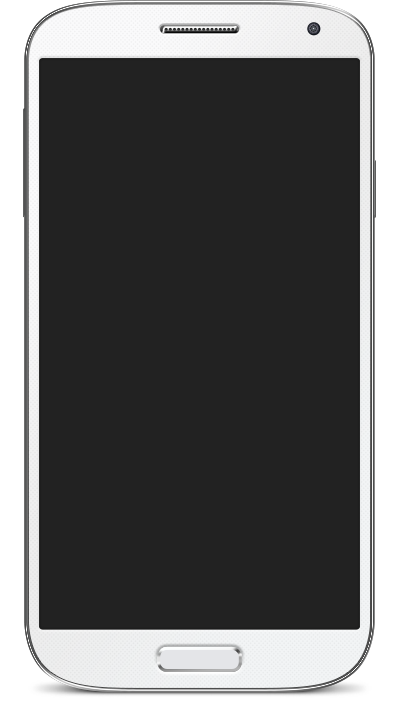
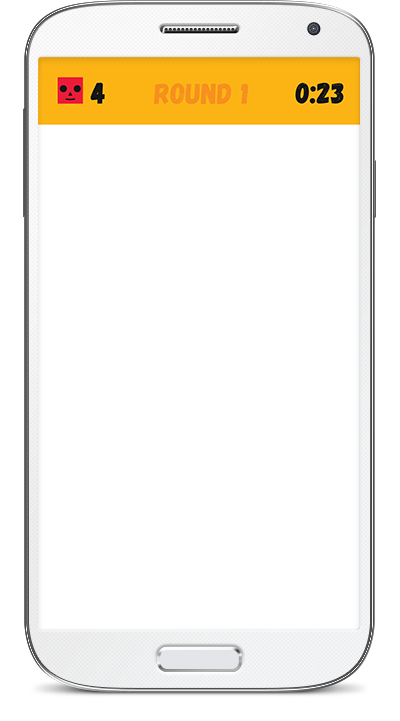
Add app preview to page

diff --git a/index.html b/index.html
@@ -65,8 +65,9 @@
 					<a class="btn btn-default btn-lg goto" href="#features">Learn more</a>
 				</div>
 				<div class="col-md-6 col-md-pull-6">
-					<div class="intro-screen wow fadeInLeftBig" data-wow-duration="1s">
-						<img  src="images/intro-screen.png" width="400" height="775" alt="" />
+					<div class="intro-screen" style="position: relative; left: 0; top: 0;">
+						<img src="images/intro-screen.png" width="400" height="775" alt="" />
+						<img src="images/swordsharpening.gif" style="position: absolute; top: 180px; left: 35px;" width="300" />
 					</div>
 				</div>
 			</div>
